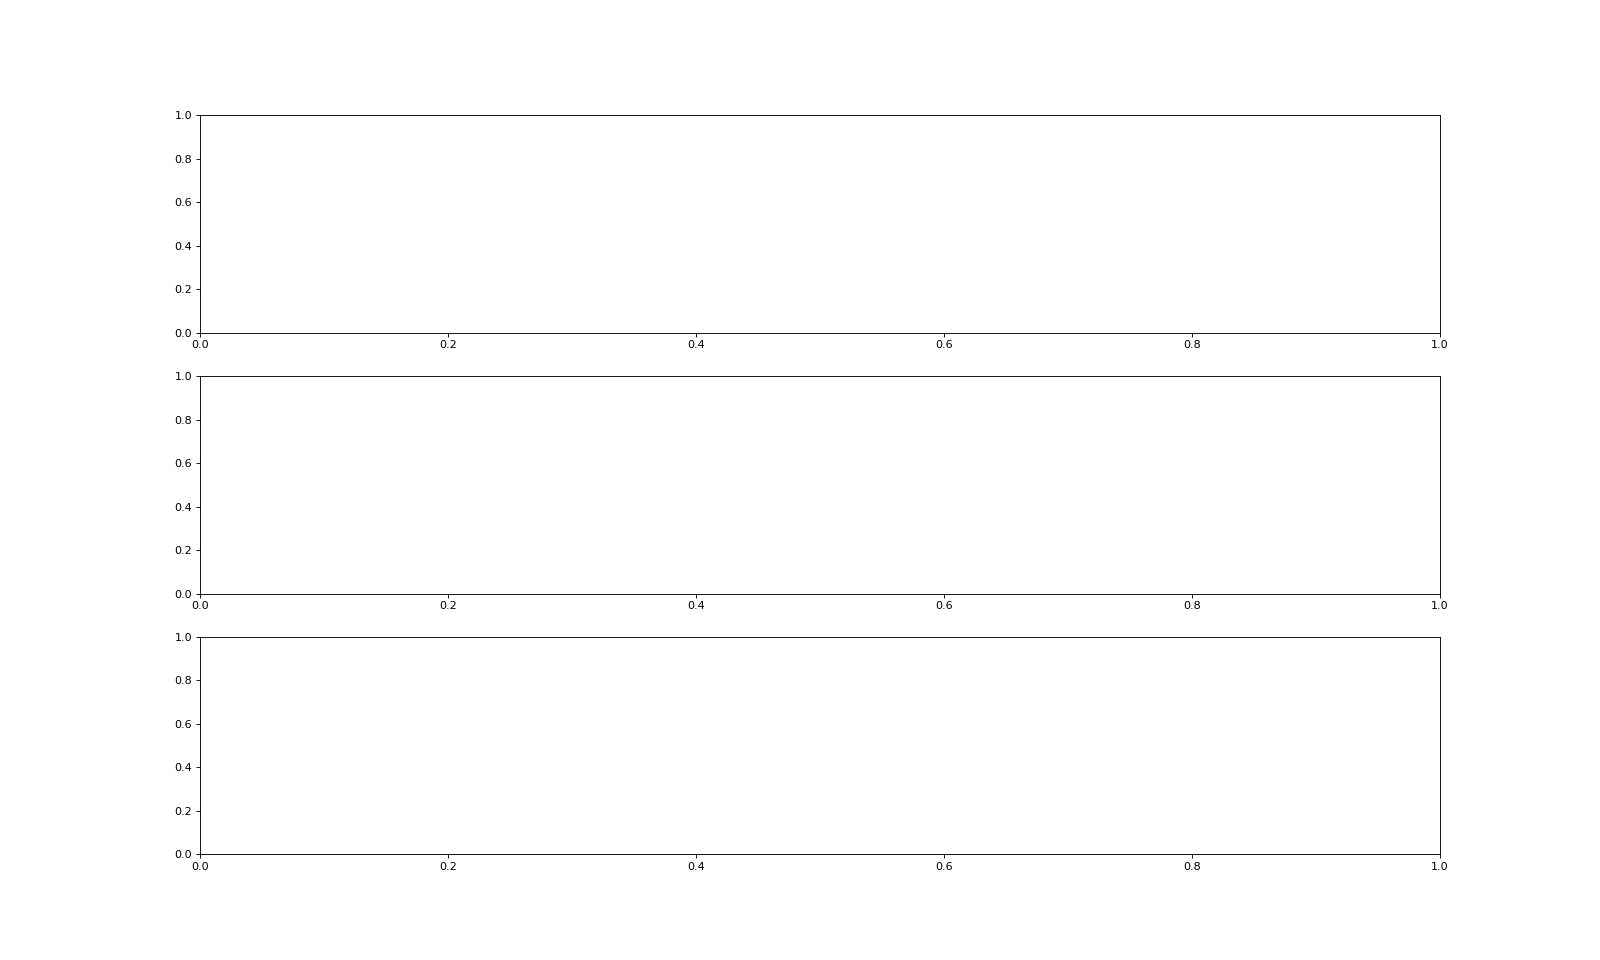
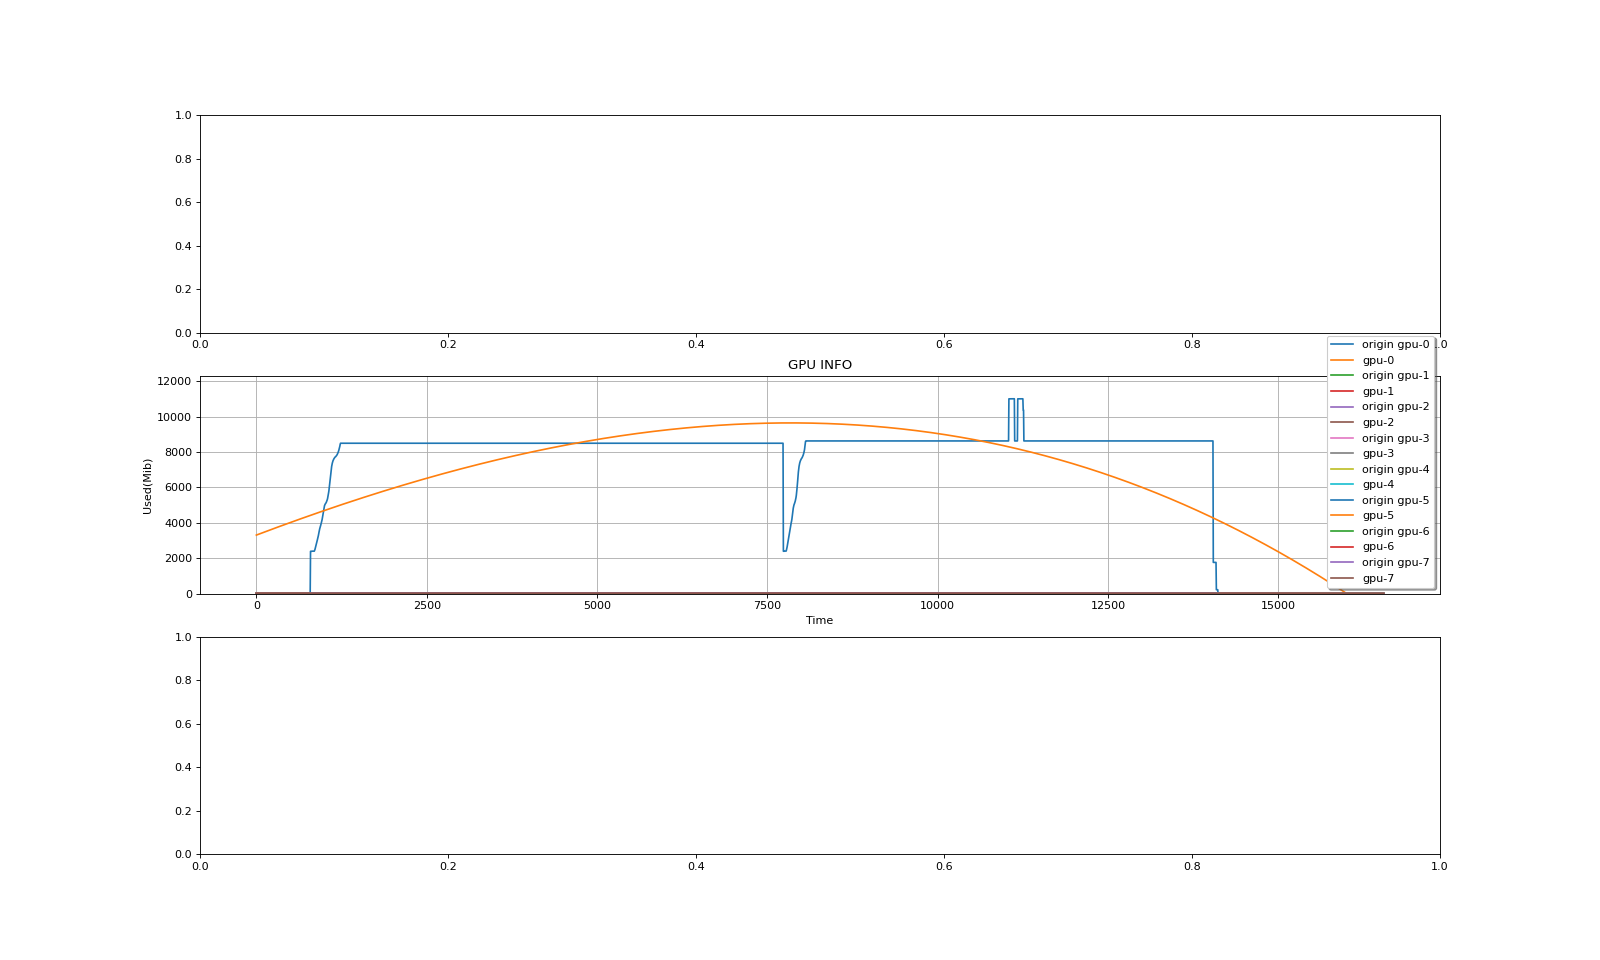
add: gpu draw func

diff --git a/cpu-gpu-mem-monitor.py b/cpu-gpu-mem-monitor.py
@@ -8,6 +8,7 @@ import time
 import datetime
 import pandas as pd
 import ast
+import numpy as np
 
 
 class CpuGpuMemoryInfo(object):
@@ -15,6 +16,9 @@ class CpuGpuMemoryInfo(object):
     def __init__(self, save_location):
         # 采样次数
         self.sample_nums = 0
+
+        # 采样间隔, 默认设置为5秒
+        self.interval = 5
         
         # data dict
         self.data_dict = {}
@@ -126,7 +130,7 @@ class CpuGpuMemoryInfo(object):
                 self.save_data(self.data_dict)
 
             # 采样间隔
-            plt.pause(0.5)
+            plt.pause(self.interval)
 
     def take_sample_plots(self, x_list, y_list, n):
         """
@@ -150,6 +154,23 @@ class CpuGpuMemoryInfo(object):
 
         return x_list, y_list 
 
+    def data_fitting(self, x_list, y_list):
+        """
+        对数据进行拟合
+        """
+        y = np.array(y_list)
+        
+        # 用3次多项式拟合
+        f1 = np.polyfit(x_list, y, 3)
+        p1 = np.poly1d(f1)
+        # print(p1)
+        
+        # 也可使用yvals=np.polyval(f1, x)
+        yvals = p1(x_list)  #拟合y值
+
+        return x_list, yvals
+
+
     def save_data(self, dict):
         """
         将数据保存到文件, 方便后续画图分析
@@ -172,22 +193,65 @@ class CpuGpuMemoryInfo(object):
         """
         cpu图像
         """
+        # 清除原图像
+        self.cpu_subplot.cla()
+        #设置cpu坐标轴属性
+        self.cpu_subplot.set_title("CPU INFO")
+        self.cpu_subplot.set_xlabel("Time")
+        self.cpu_subplot.set_ylabel("Use Rate")
+        self.cpu_subplot.grid()
+
         data_dict = self.load_data()
         for i in range(8):
             x_list = ast.literal_eval(data_dict["cpu-" + str(i)][0])
+            x_list = [item * self.interval for item in x_list]
+
             y_list = ast.literal_eval(data_dict["cpu-" + str(i)][1])
-            
-            x_list, y_list = self.take_sample_plots(x_list, y_list, 1000)
-            print(len(x_list))
-            print(len(y_list))
-            # self.cpu_subplot.plot(x_list, y_list)
+            print("max cpu-" + str(i) + " = %d" % max(y_list))
+            print("min cpu-" + str(i) + " = %d" % min(y_list))
+            print("avg cpu-" + str(i) + " = %d" % np.mean(y_list))
+            x_list_new, y_list_new = self.data_fitting(x_list, y_list)
+
+           #  self.cpu_subplot.plot(x_list, y_list, 's', label='original values')
+            self.cpu_subplot.plot(x_list_new, y_list_new, label='cpu-' + str(i))
+        
+        # 坐标自动调整
+        self.cpu_subplot.autoscale()
+        self.cpu_subplot.set_ylim(0, 100)
+        # 设置图例位置,loc可以为[upper, lower, left, right, center]
+        self.cpu_subplot.legend(loc='best', shadow=True)
         print("finished draw cpu image")
 
     def draw_gpu_image(self):
         """
         gpu图像
         """
-        pass
+        #　清除原图像
+        self.gpu_subplot.cla()
+        # 设置坐标轴属性
+        self.gpu_subplot.set_title("GPU INFO")
+        self.gpu_subplot.set_xlabel("Time")
+        self.gpu_subplot.set_ylabel("Used(Mib)")
+        self.gpu_subplot.grid()
+
+        data_dict = self.load_data()
+
+        for i in range(8):
+            x_list = ast.literal_eval(data_dict["gpu-" + str(i)][0])
+            x_list = [item * self.interval for item in x_list]
+
+            y_list = ast.literal_eval(data_dict["gpu-" + str(i)][1])
+            print("max gpu-" + str(i) + " = %d" % max(y_list))
+            print("min gpu-" + str(i) + " = %d" % min(y_list))
+            print("avg gpu-" + str(i) + " = %d" % np.mean(y_list))
+            x_list_new, y_list_new = self.data_fitting(x_list, y_list)
+
+            self.gpu_subplot.plot(x_list, y_list, label='origin gpu-' + str(i))
+            self.gpu_subplot.plot(x_list_new, y_list_new, label='gpu-' + str(i))
+        self.gpu_subplot.autoscale()
+        self.gpu_subplot.set_ylim(0, 12288)
+        # 设置图例位置,loc可以为[upper, lower, left, right, center]
+        self.gpu_subplot.legend(loc='best', shadow=True)
 
     def draw_mem_image(self):
         """
@@ -220,5 +284,5 @@ class CpuGpuMemoryInfo(object):
 
 if __name__ == "__main__":
     monitor = CpuGpuMemoryInfo("./out.png")
-    monitor.draw_cpu_image()
+    monitor.draw_gpu_image()
     monitor.save_image()
